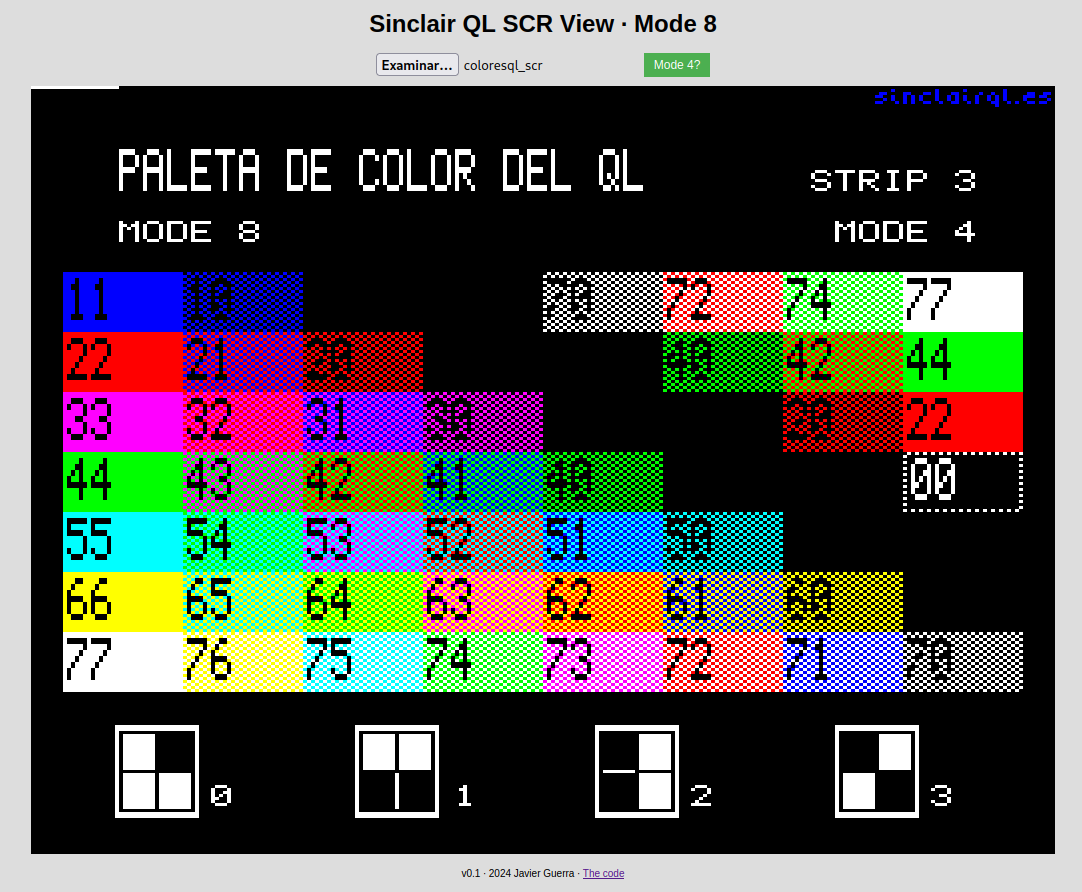
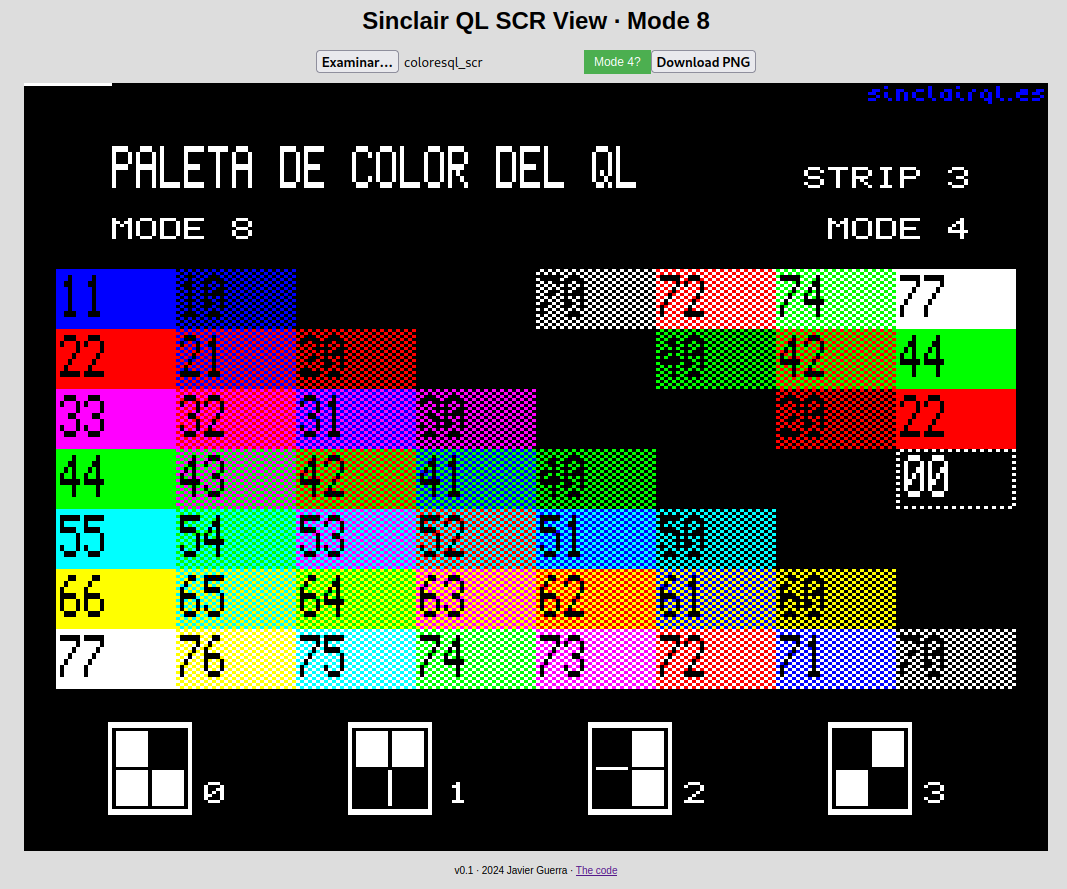
Added download PNG image option

diff --git a/docs/index.html b/docs/index.html
@@ -23,6 +23,7 @@
   <div id="controles">
     <input type="file" id="inputArchivo" />
     <a href="index2.html">Mode 4?</a>
+    <button id="descargar">Download PNG</button>
   </div>
 
   <canvas id="canvasImagen" width="1024" height="768"></canvas>
@@ -66,6 +67,16 @@
       };
       reader.readAsArrayBuffer(archivo);
     }, false);
+
+    function descargarComoPNG() {
+      var canvas = document.getElementById('canvasImagen');
+      var link = document.createElement('a');
+      link.download = 'scr_QL8.png';
+      link.href = canvas.toDataURL('image/png');
+      link.click();
+    }
+
+    document.getElementById('descargar').addEventListener('click', descargarComoPNG);
   </script>
 
 </body>

diff --git a/docs/index2.html b/docs/index2.html
@@ -23,6 +23,7 @@
   <div id="controles">
     <input type="file" id="inputArchivo" />
     <a href="index.html">Mode 8?</a>
+    <button id="descargar">Download PNG</button>
   </div>
 
   <canvas id="canvasImagen" width="1024" height="768"></canvas>
@@ -66,6 +67,16 @@
       };
       reader.readAsArrayBuffer(archivo);
     }, false);
+
+    function descargarComoPNG() {
+      var canvas = document.getElementById('canvasImagen');
+      var link = document.createElement('a');
+      link.download = 'scr_QL4.png';
+      link.href = canvas.toDataURL('image/png');
+      link.click();
+    }
+
+    document.getElementById('descargar').addEventListener('click', descargarComoPNG);
   </script>
 
 </body>
